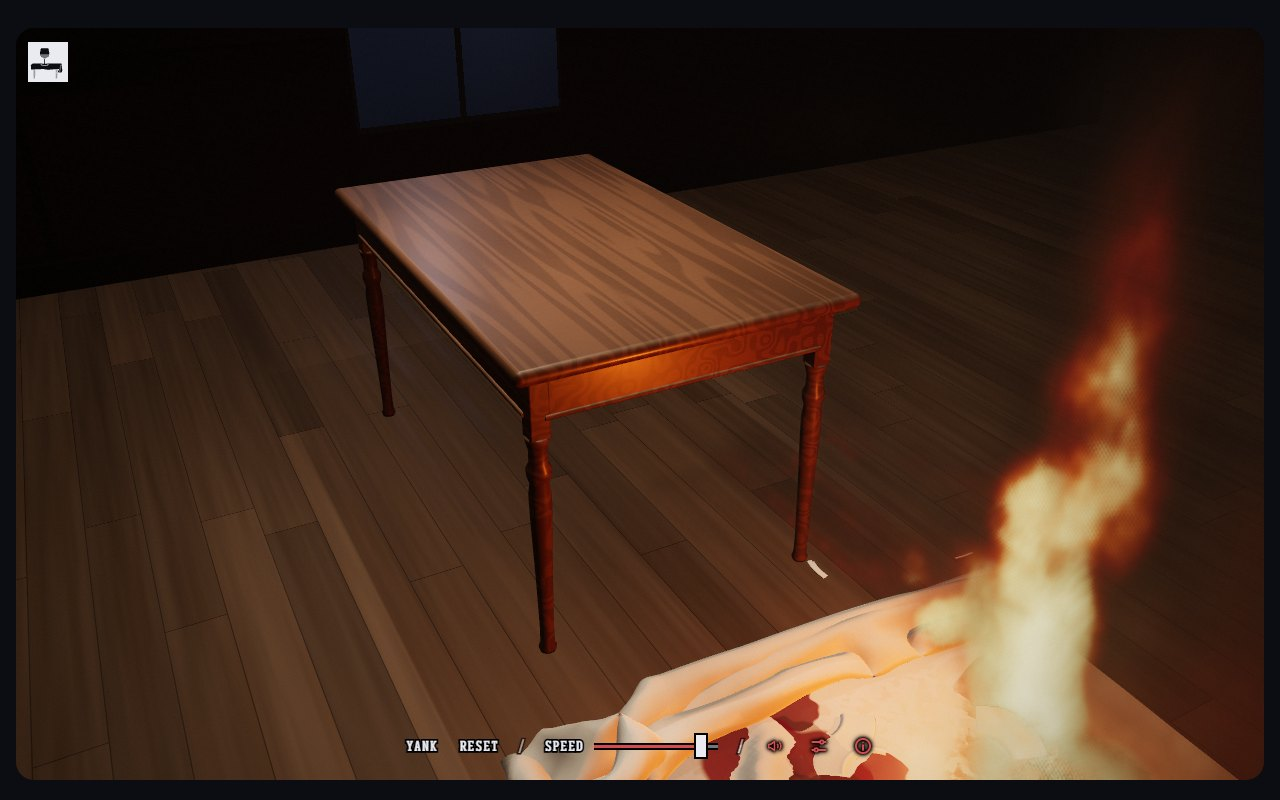
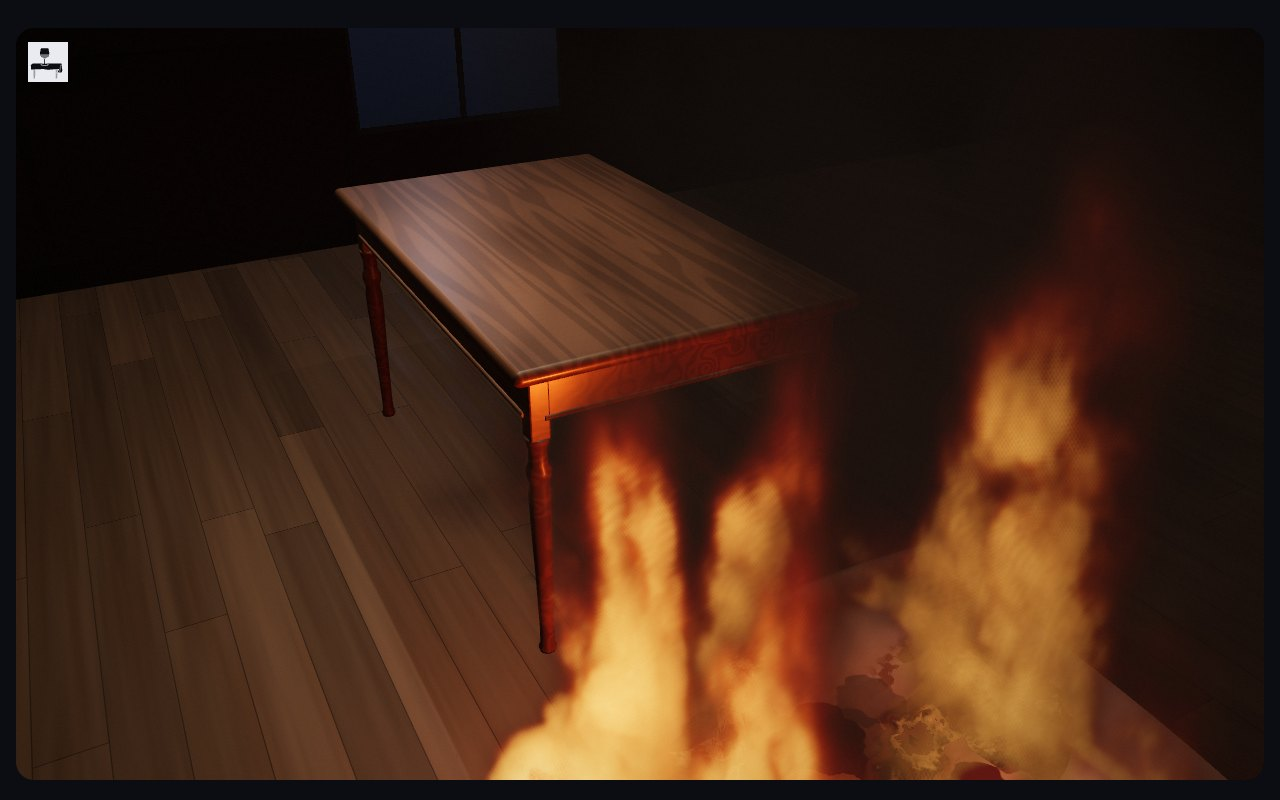
Tablecloth yank: more orange flames, in Tom's words. The hot stops of the flame ramp lose lightness and turn toward orange; the blaze size and the fire under reduced motion stay, as Tom chose. Fire captures 13 to 16 retaken (stimming-nf4i)

Changed region(s): [[0.3125, 0.1875, 1.0, 1.0]]

diff --git a/tablecloth/fire.js b/tablecloth/fire.js
@@ -304,8 +304,9 @@ function okl(L, C, h, out) {
   const l = (L + 0.3963377774 * a + 0.2158037573 * b) ** 3, m = (L - 0.1055613458 * a - 0.0638541728 * b) ** 3, s = (L - 0.0894841775 * a - 1.291485548 * b) ** 3;
   return out.set(Math.max(0, 4.0767416621 * l - 3.3077115913 * m + 0.2309699292 * s), Math.max(0, -1.2684380046 * l + 2.6097574011 * m - 0.3413193965 * s), Math.max(0, -0.0041960863 * l - 0.7034186147 * m + 1.707614701 * s));
 }
-// Fire's wood: start, mid, end and smoke stops in OKLCH.
-const WOOD = [[0.93, 0.11, 95], [0.72, 0.19, 52], [0.6, 0.24, 30], [0.8, 0.03, 50]];
+// Fire's wood stops in OKLCH: start, mid, end, smoke.
+// Tom wants more orange: the hot stops lose lightness and turn toward orange.
+const WOOD = [[0.85, 0.16, 66], [0.7, 0.2, 47], [0.57, 0.22, 33], [0.8, 0.03, 50]];
 export const FIRE_LIGHT = okl(...WOOD[1], new THREE.Color());
 
 export function createFire(renderer, camera, lamp) {

diff --git a/docs/toys/tablecloth.md b/docs/toys/tablecloth.md
@@ -35,7 +35,7 @@ Idea 112, group E, a physics loop: drag the cloth edge and yank it; plates and g
 - A walnut table, 1.4 x 0.85 m, on four turned legs, a bead under the apron; oak boards.
 - White satin damask cloth, 2.1 x 1.5 m, about 0.33 m of drop each side. Damask figures and a border band show only in the sheen; a doubled hem.
 - Two places across the table: a porcelain dinner plate with a slate line on its verge, a knife, a fork, a tulip wine glass with deep red wine, a tumbler with water. A brass candlestick with a lit candle between them; wax drips run down the candle from its rim.
-- Fire, after Fire: flames are heat in a fluid drawn through Fire's wood ramp; smoke takes the lamp's light. The fire lights the room. A white hem stitch and a fine weave show in the linen.
+- Fire, after Fire: flames are heat in a fluid drawn through Fire's wood ramp, its hot stops turned toward orange (Tom, 2026-11-23); smoke takes the lamp's light. The fire lights the room. A white hem stitch and a fine weave show in the linen.
 - True details: the setting moves a few cm toward the pull even on a clean yank; the trailing edge flicks each piece as it slips out, so plates chatter and glasses rock; the liquid surface stays level and lags its glass (first slosh mode of its radius); a tipped glass pours from the low side of its rim; the candle flame leans in the wind of the passing cloth and goes out if the stick falls; a wine glass's foot and stem survive its fall while the bowl breaks; a slow pull takes the setting down the cloth's hanging face before it drops.
 
 ## Controls
@@ -105,4 +105,4 @@ Captures: `docs/qa/tablecloth/` (01 blockout to 10 icons; 11 to 17 for the secon
 - The Dutch name: draft Tafelkleedtruc.
 - The icon pick: A of spike tablecloth-1 is on the menu until Tom picks.
 - Fire on a slow drag: the cloth catches each time the candle falls on or near it. A fast yank leaves the candle standing, so no fire.
-- Reduced motion keeps the fire: it is the result of a gesture.
+- Reduced motion keeps the fire: it is the result of a gesture (Tom: yes).

diff --git a/.beans/stimming-nf4i--toy-tablecloth-yank.md b/.beans/stimming-nf4i--toy-tablecloth-yank.md
@@ -43,3 +43,4 @@ Build Tablecloth yank (idea 112, group E, a physics loop) as a Lab toy: an MVP a
 - Icons: no pick in icons/picks.json, so A of spike tablecloth-1 is on the menu. The intro emblem is A's emblem. The favicon shared/favicons/tablecloth.png comes from the menu tile.
 - Open for Tom: 3D or flat (3D by default), a closer shot, the Dutch name (draft Tafelkleedtruc), the icon pick.
 - Pass 2 (2026-11-23): captures 11 to 17. Embers: a fallen flame alone lit the cloth in half the runs, as the candle often lands past the hem; a spray of burning wax as it lands lights it in 10 of 10 slow drags. Fire costs 7.8 ms mean a frame with over 900 particles burning (headless Edge, RTX 3070). The yank outcomes moved: 6 m/s all stand, 4 m/s all stand, 3 m/s one or two fall, 2 m/s about five fall.
+- Tom, 2026-11-23: flames more orange (done: the hot ramp stops turn toward orange); the blaze size and the fire under reduced motion stay as built.
